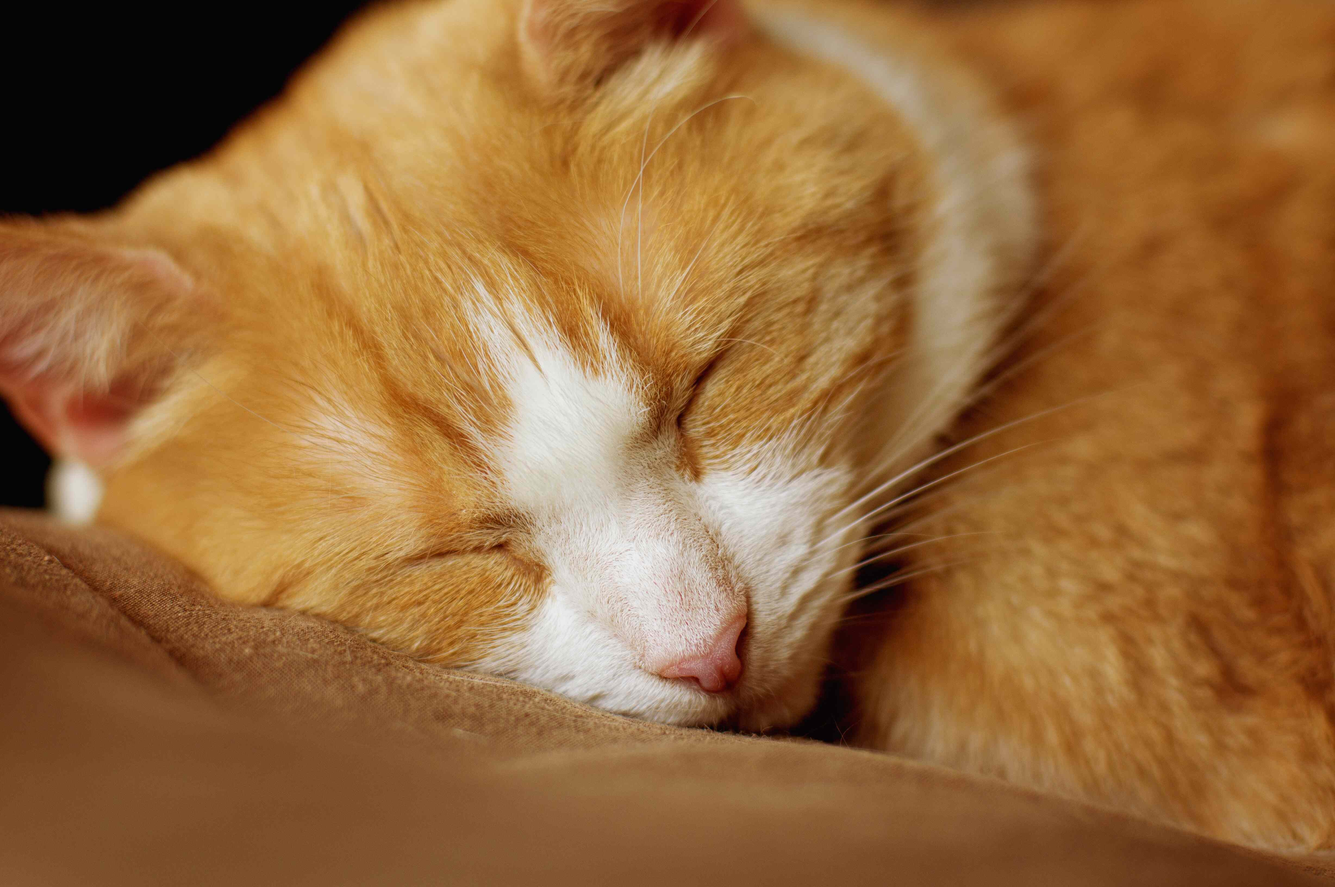
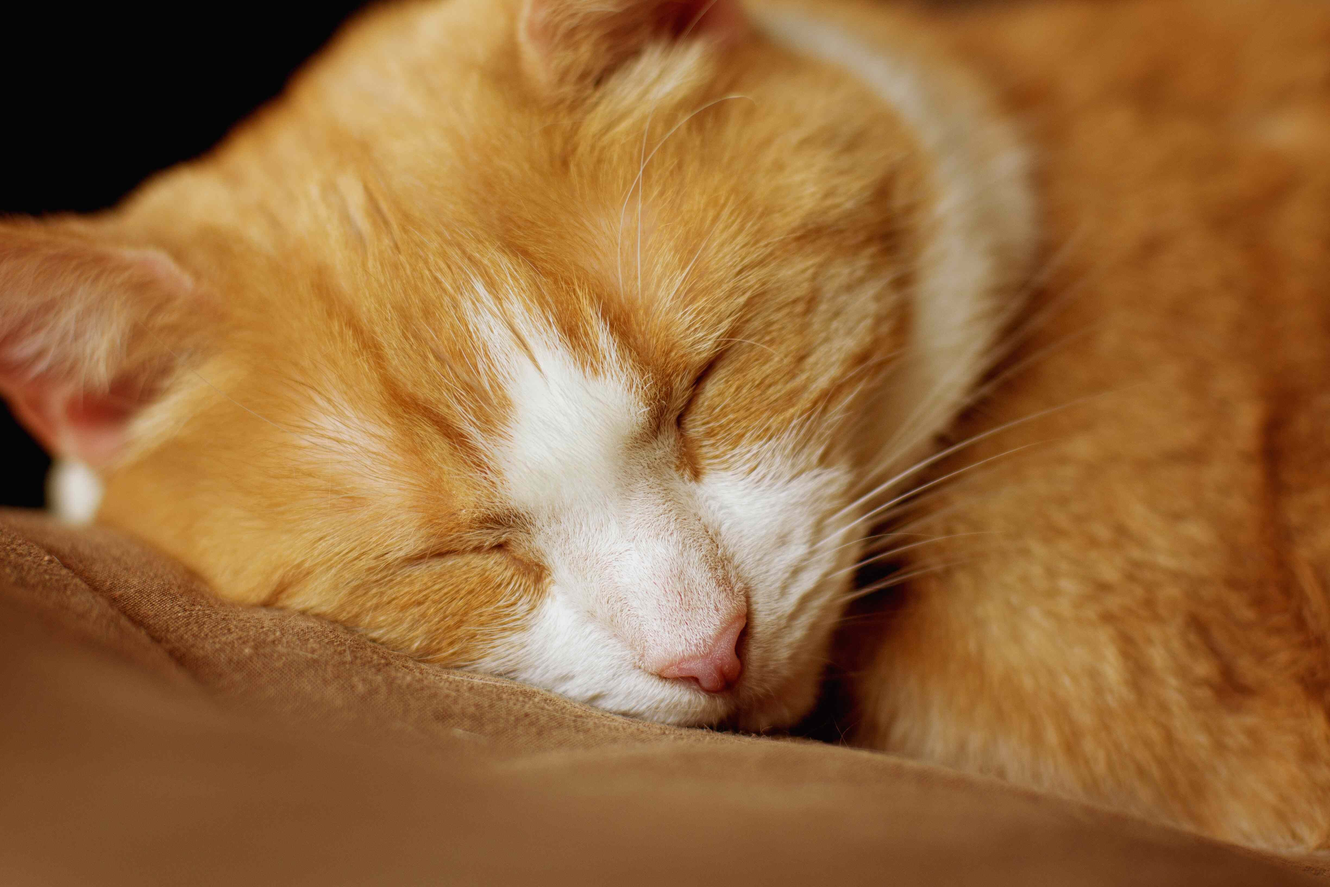
added content to week 9B

Changed region(s): [[0.25, 0.1562, 0.75, 0.8438], [0.2188, 0.6875, 0.25, 0.7188]]

diff --git a/week_09/components/index.html b/week_09/components/index.html
@@ -53,9 +53,12 @@
             />
             <div class="card-body">
               <h3 class="card-title">
-                Pet Name <span class="badge bg-danger">badge</span>
+                Barnard
+                <span class="badge bg-danger">pro volleyball player</span>
               </h3>
-              <p class="card-text">Info about the pet</p>
+              <p class="card-text">
+                Barnard is an English Bulldog with a great personally.
+              </p>
               <a class="btn btn-success" href="#">ADOPT NOW</a>
             </div>
           </div>
@@ -65,14 +68,17 @@
           <div class="card bg-body">
             <img
               class="card-img-top"
-              src="../images/pet-01.jpg"
-              alt="small white dog with a ball"
+              src="../images/pet-02.jpg"
+              alt="red and black bearded dragon"
             />
             <div class="card-body">
               <h3 class="card-title">
-                Pet Name <span class="badge bg-danger">badge</span>
+                Roger <span class="badge bg-danger">super chill</span>
               </h3>
-              <p class="card-text">Info about the pet</p>
+              <p class="card-text">
+                Roger is a Bearded Dragon and is the perfect companion for
+                someone looking for companion in a smaller space.
+              </p>
               <a class="btn btn-success" href="#">ADOPT NOW</a>
             </div>
           </div>
@@ -81,31 +87,14 @@
           <div class="card bg-body">
             <img
               class="card-img-top"
-              src="../images/pet-01.jpg"
-              alt="small white dog with a ball"
+              src="../images/pet-03.jpg"
+              alt="orange and white cat sleeping"
             />
             <div class="card-body">
               <h3 class="card-title">
-                Pet Name <span class="badge bg-danger">badge</span>
+                Pumpkin Pie <span class="badge bg-danger">sleepy</span>
               </h3>
-              <p class="card-text">Info about the pet</p>
-              <a class="btn btn-success" href="#">ADOPT NOW</a>
-            </div>
-          </div>
-        </div>
-
-        <div class="col-12 col-md-6 col-lg-4">
-          <div class="card bg-body">
-            <img
-              class="card-img-top"
-              src="../images/pet-01.jpg"
-              alt="small white dog with a ball"
-            />
-            <div class="card-body">
-              <h3 class="card-title">
-                Pet Name <span class="badge bg-danger">badge</span>
-              </h3>
-              <p class="card-text">Info about the pet</p>
+              <p class="card-text">Pumpkin Pie loves to sleep!</p>
               <a class="btn btn-success" href="#">ADOPT NOW</a>
             </div>
           </div>
@@ -115,14 +104,16 @@
           <div class="card bg-body">
             <img
               class="card-img-top"
-              src="../images/pet-01.jpg"
-              alt="small white dog with a ball"
+              src="../images/pet-04.jpg"
+              alt="white rat in a tunnel"
             />
             <div class="card-body">
               <h3 class="card-title">
-                Pet Name <span class="badge bg-danger">badge</span>
+                Whiskers <span class="badge bg-danger">no cats please!</span>
               </h3>
-              <p class="card-text">Info about the pet</p>
+              <p class="card-text">
+                Whiskers is looking for a home with no cats!
+              </p>
               <a class="btn btn-success" href="#">ADOPT NOW</a>
             </div>
           </div>
@@ -132,14 +123,38 @@
           <div class="card bg-body">
             <img
               class="card-img-top"
-              src="../images/pet-01.jpg"
-              alt="small white dog with a ball"
+              src="../images/pet-05.jpg"
+              alt="brown and white cat with it's tongue out"
             />
             <div class="card-body">
               <h3 class="card-title">
-                Pet Name <span class="badge bg-danger">badge</span>
+                Greg <span class="badge bg-danger">cute!</span>
               </h3>
-              <p class="card-text">Info about the pet</p>
+              <p class="card-text">
+                Greg has no teeth, so his tongue is always sticking out. Don't
+                mention it because he gets self conscious!
+              </p>
+              <a class="btn btn-success" href="#">ADOPT NOW</a>
+            </div>
+          </div>
+        </div>
+
+        <div class="col-12 col-md-6 col-lg-4">
+          <div class="card bg-body">
+            <img
+              class="card-img-top"
+              src="../images/pet-06.jpg"
+              alt="yellow lab puppy sitting in a food bowl"
+            />
+            <div class="card-body">
+              <h3 class="card-title">
+                Buddy
+                <span class="badge bg-danger">comes with the bowl!</span>
+              </h3>
+              <p class="card-text">
+                Buddy has a great system where if he's hungry, he just sits in
+                the bowl until someone feeds him again!
+              </p>
               <a class="btn btn-success" href="#">ADOPT NOW</a>
             </div>
           </div>
